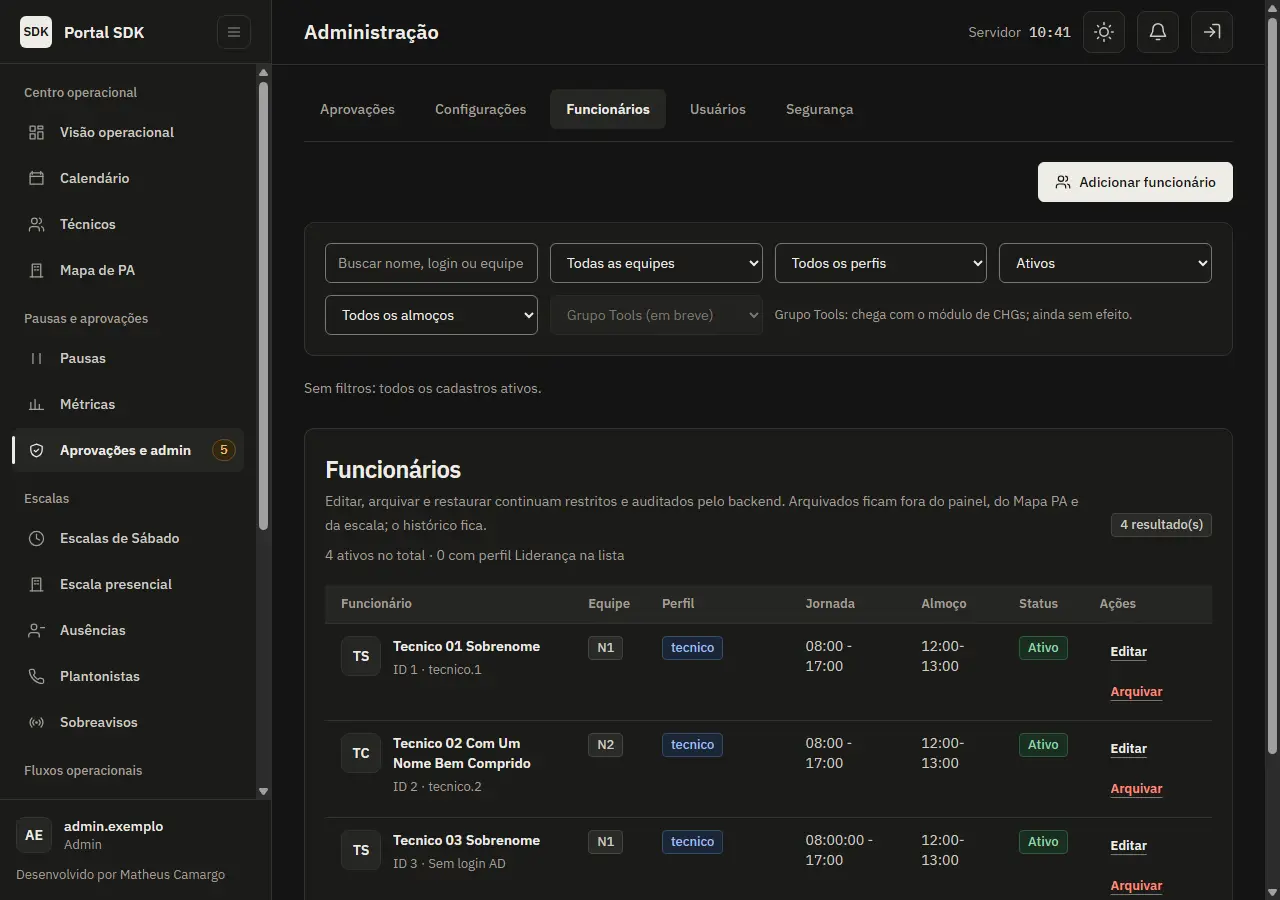
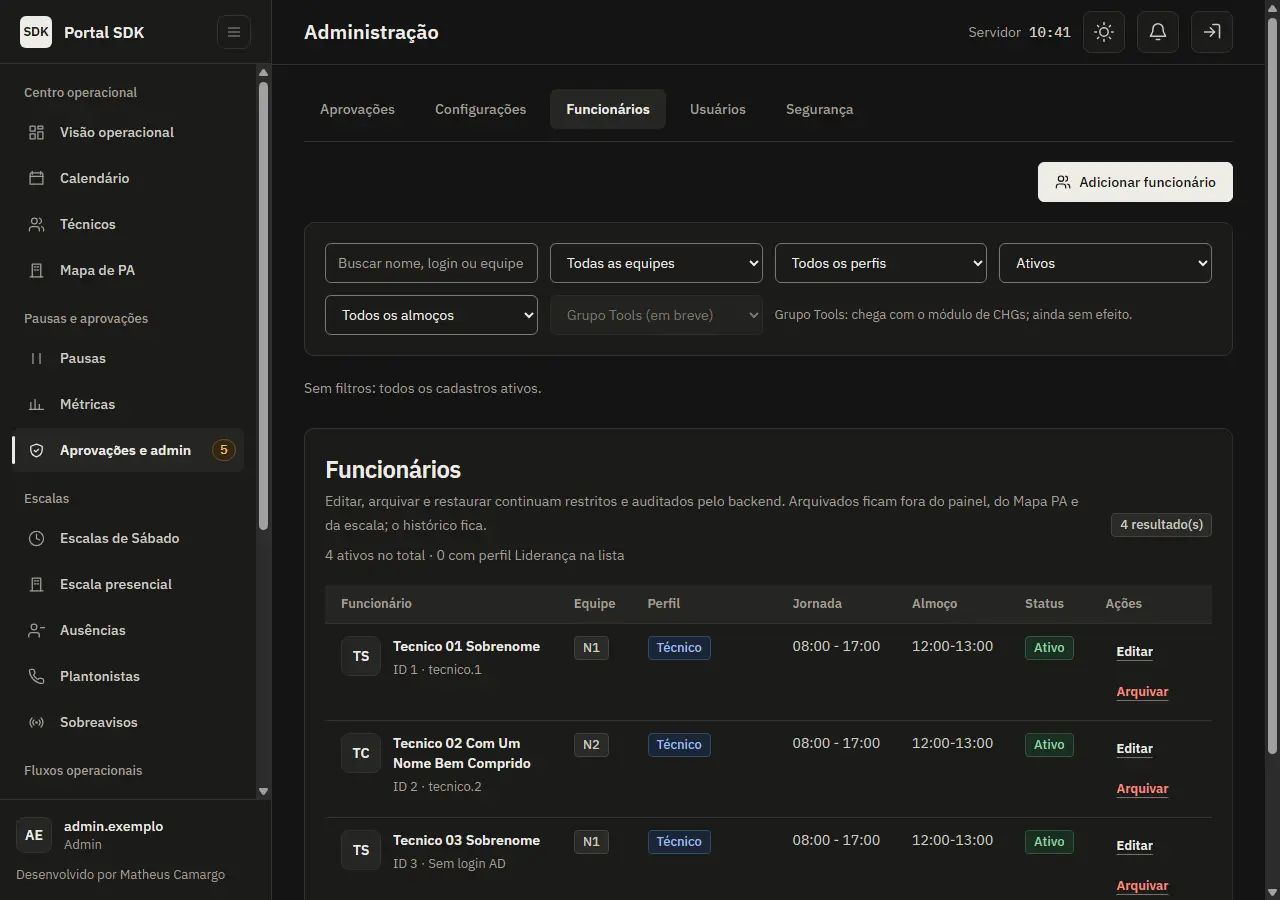
docs: acabamento do R4d e as baterias registradas
- PLANO_LOTES_R.md: a revisao de 15/11/2026 (R4c, R4d e o roteiro do
  deploy 3 aprovados), o acabamento do e627fb3 (jornada e almoco numa
  linha, HH:MM com a normalizacao do filtro de Almoco, perfil pelo
  rotulo; QA, bloco 26, mutacao 8/8, a expectativa que mudou) e a tabela
  das baterias completas, cada uma sozinha, dos commits desde o 5ab0326:
  f9790b5 (25/25, 1079/1079), a900eef (26/26, 1084/1084), c837dc5
  (26/26, 1089/1089), 77c4940, 906caa8, 9d22316, 9815213 e 48d27e1
  (26/26, 1091/1091) e e627fb3 (26/26, 1092/1092), todas com saida 0.
  A folha do deploy 3 nao muda (26 scripts npm; nao fixa o numero de
  conferencias do navegador).
- capturas/r4d/ refeitas do build do e627fb3.
- REGISTRO_USO_IA: entrada do acabamento e das baterias.

diff --git a/docs/design/PLANO_LOTES_R.md b/docs/design/PLANO_LOTES_R.md
@@ -694,3 +694,39 @@ Cada tela é um commit com as capturas antes e depois. Os QAs e os `data-*` dela
 - **"Depois", no git:** `capturas/r4d/`: Funcionários e o painel de adicionar aberto, 1280 e 390 px, claro e escuro. São 8 arquivos, do build do `77c4940`. O `capturar.mjs` abre o painel pelo marcador `#adicionar`, só no plano dos lotes R.
 
 **O R4 está completo** (R4a a R4d). O deploy do redesenho vai no deploy 3, junto com o F10-1 (sem efeito em produção) e a limpeza do `sdk-icon.png`: roteiro e folha no `DEPLOY_LINUX.md` e em `docs/DEPLOY3_FOLHA_DO_DIA.md`.
+
+### Revisão do R4c, do R4d e do roteiro do deploy 3; acabamento do R4d (15/11/2026)
+
+**Aprovados:** os ajustes do R3-R4b (`f9790b5`), o R4c (`a900eef`), o R4d (`c837dc5`, `77c4940`), os docs (`906caa8`, `9d22316`) e o roteiro e a folha do deploy 3 (`9815213`, `48d27e1`).
+
+**Acabamento da lista de Funcionários (`e627fb3`), pedido na revisão, só apresentação:**
+1. **Jornada e almoço numa linha só** em 1280 px, na tabela e no cartão (antes, "08:00 - / 17:00" e "12:00- / 13:00" quebravam).
+2. **Horários sempre em HH:MM** (um cadastro mostrava "08:00:00"), com a mesma normalização do filtro de Almoço: `scheduleText` no `employeeLunch.ts`, ao lado do `lunchKey`. Sem horário válido, "—".
+3. **Perfil pelo rótulo do filtro** ("Técnico", "Gestor", "Liderança", "Admin (legado)", "Somente leitura"), e não pelo valor cru ("tecnico").
+
+- **QA:** `qa:employee-form` confere:
+  - a jornada pura (segundos, espaços, horário inválido);
+  - os cinco perfis na linha e no cartão;
+  - HH:MM nos dois, nenhum horário com segundos e as células sem quebra.
+- **Navegador, bloco 26:** em 1280 px, jornada e almoço numa linha, sem segundos (o servidor simulado manda "08:00:00" para o 3º cadastro) e com o rótulo. Total 1092.
+- **Mutação:** 8/8, cada mutante morto pela conferência certa: sem o "sem quebra", no QA e no navegador; a jornada crua com segundos, no QA e no navegador; a jornada sem normalizar no `employeeLunch.ts`; o perfil cru na tabela, no QA e no navegador; o perfil cru no cartão.
+- **Expectativa que mudou:** a conferência 17 do `qa:employee-form` (o cartão com o texto da linha) passa a esperar o rótulo do perfil ("Técnico"), e não o valor cru, porque esse é o pedido.
+- **Capturas:** `capturas/r4d/` refeitas do build do `e627fb3` (Funcionários e o painel de adicionar, 1280 e 390 px, claro e escuro): 0 alvos abaixo de 40 px e 0 rolagens laterais em 390 px.
+
+**Baterias completas registradas** (`test-local.ps1 -SkipHttp -Browser`, cada uma **sozinha** no worktree de validação, sem nada em paralelo; saída, frontend e navegador):
+
+| Commit | O que é | Saída | Frontend (lint, typecheck, build e `qa:*`) | Navegador |
+|---|---|---|---|---|
+| `f9790b5` | Ajustes do R3-R4b (varredura final) | 0 | 25/25 | 1079/1079 |
+| `a900eef` | R4c (varredura final) | 0 | 26/26 | 1084/1084 |
+| `c837dc5` | R4d | 0 | 26/26 | 1089/1089 |
+| `77c4940` | R4d, correção do celular | 0 | 26/26 | 1091/1091 |
+| `906caa8` | Docs da revisão e do R4c | 0 | 26/26 | 1091/1091 |
+| `9d22316` | Docs do R4d | 0 | 26/26 | 1091/1091 |
+| `9815213` | Roteiro e folha do deploy 3 | 0 | 26/26 | 1091/1091 |
+| `48d27e1` | Trava do roteiro do deploy 3 | 0 | 26/26 | 1091/1091 |
+| `e627fb3` | Acabamento do R4d | 0 | 26/26 | 1092/1092 |
+
+As oito primeiras são da varredura final de 14/11/2026, rodada em sequência depois de todos os commits, sem nada em paralelo. O `906caa8` vem depois do `77c4940` no histórico, por isso já soma 1091. Este commit de docs tem a bateria rodada depois dele, com o resultado no estado da sessão.
+
+**Folha do deploy 3:** a contagem de scripts npm não mudou (26: lint, typecheck, build e 23 `qa:*`), e a folha não fixa o número de conferências do navegador (pede `falharam: 0`). Não muda.

diff --git a/docs/REGISTRO_USO_IA.md b/docs/REGISTRO_USO_IA.md
@@ -1521,6 +1521,20 @@ Base da afirmação:
 
 ---
 
+### Redesenho: acabamento do R4d e baterias registradas — 2026-11-15
+
+| Campo | Conteudo |
+|---|---|
+| **Finalidade** | O acabamento da lista de Funcionários pedido na revisão de 15/11/2026 (jornada e almoço numa linha, horários em HH:MM com a normalização do filtro de Almoço, perfil pelo rótulo) e o registro das baterias completas, cada uma sozinha, dos commits desde o `5ab0326` que ainda não tinham o resultado escrito. Só apresentação: nenhuma regra, API, permissão ou texto de segurança mudou. |
+| **Branch e commits** | `feat/employee-form-rhf-zod`: `e627fb3` (acabamento) e um commit só de docs (o registro no plano, as capturas do R4d refeitas e esta entrada). Sem push pela IA. |
+| **O que a IA alterou** | `employeeLunch.ts` (`scheduleText`, a jornada em HH:MM), `AdminPage.jsx` (jornada e almoço sem quebra e em HH:MM, perfil pelo rótulo na tabela e no cartão). QA: `qa:employee-form` e o bloco 26 do navegador. |
+| **Dados pessoais** | Nenhum. QA, navegador e capturas com dados fictícios. |
+| **Validacao executada pela IA** | Baterias completas, sozinhas: `f9790b5` 0 (25/25, 1079/1079); `a900eef` 0 (26/26, 1084/1084); `c837dc5` 0 (26/26, 1089/1089); `77c4940` 0 (26/26, 1091/1091); `906caa8`, `9d22316`, `9815213` e `48d27e1` 0 (26/26, 1091/1091); `e627fb3` 0 (26/26, 1092/1092). Mutação do acabamento: 8/8. Em 390 px, nos dois temas: 0 alvos abaixo de 40 px e 0 rolagens laterais. `gitleaks` sem achados. |
+| **Limitacoes declaradas** | A bateria deste commit de docs roda depois dele (não pode estar escrita nele). A folha do deploy 3 não muda: a contagem de scripts npm continua 26, e ela não fixa o número de conferências do navegador. O `sdk-icon.png` continua no `public/` até o responsável removê-lo; o passo 1 do roteiro do deploy 3 dá PARE enquanto o commit o trouxer. |
+| **Validacao humana** | Pendente: revisão do acabamento e do registro. |
+
+---
+
 ## 5. Responsabilidade
 
 O conteúdo gerado por IA é **proposta técnica sujeita a revisão humana**. A responsabilidade pela correção, pela adequação ao negócio e pela publicação em qualquer ambiente é do responsável humano identificado na seção 1. Nenhuma alteração gerada por IA foi promovida a ambiente produtivo sem revisão e execução manual.
